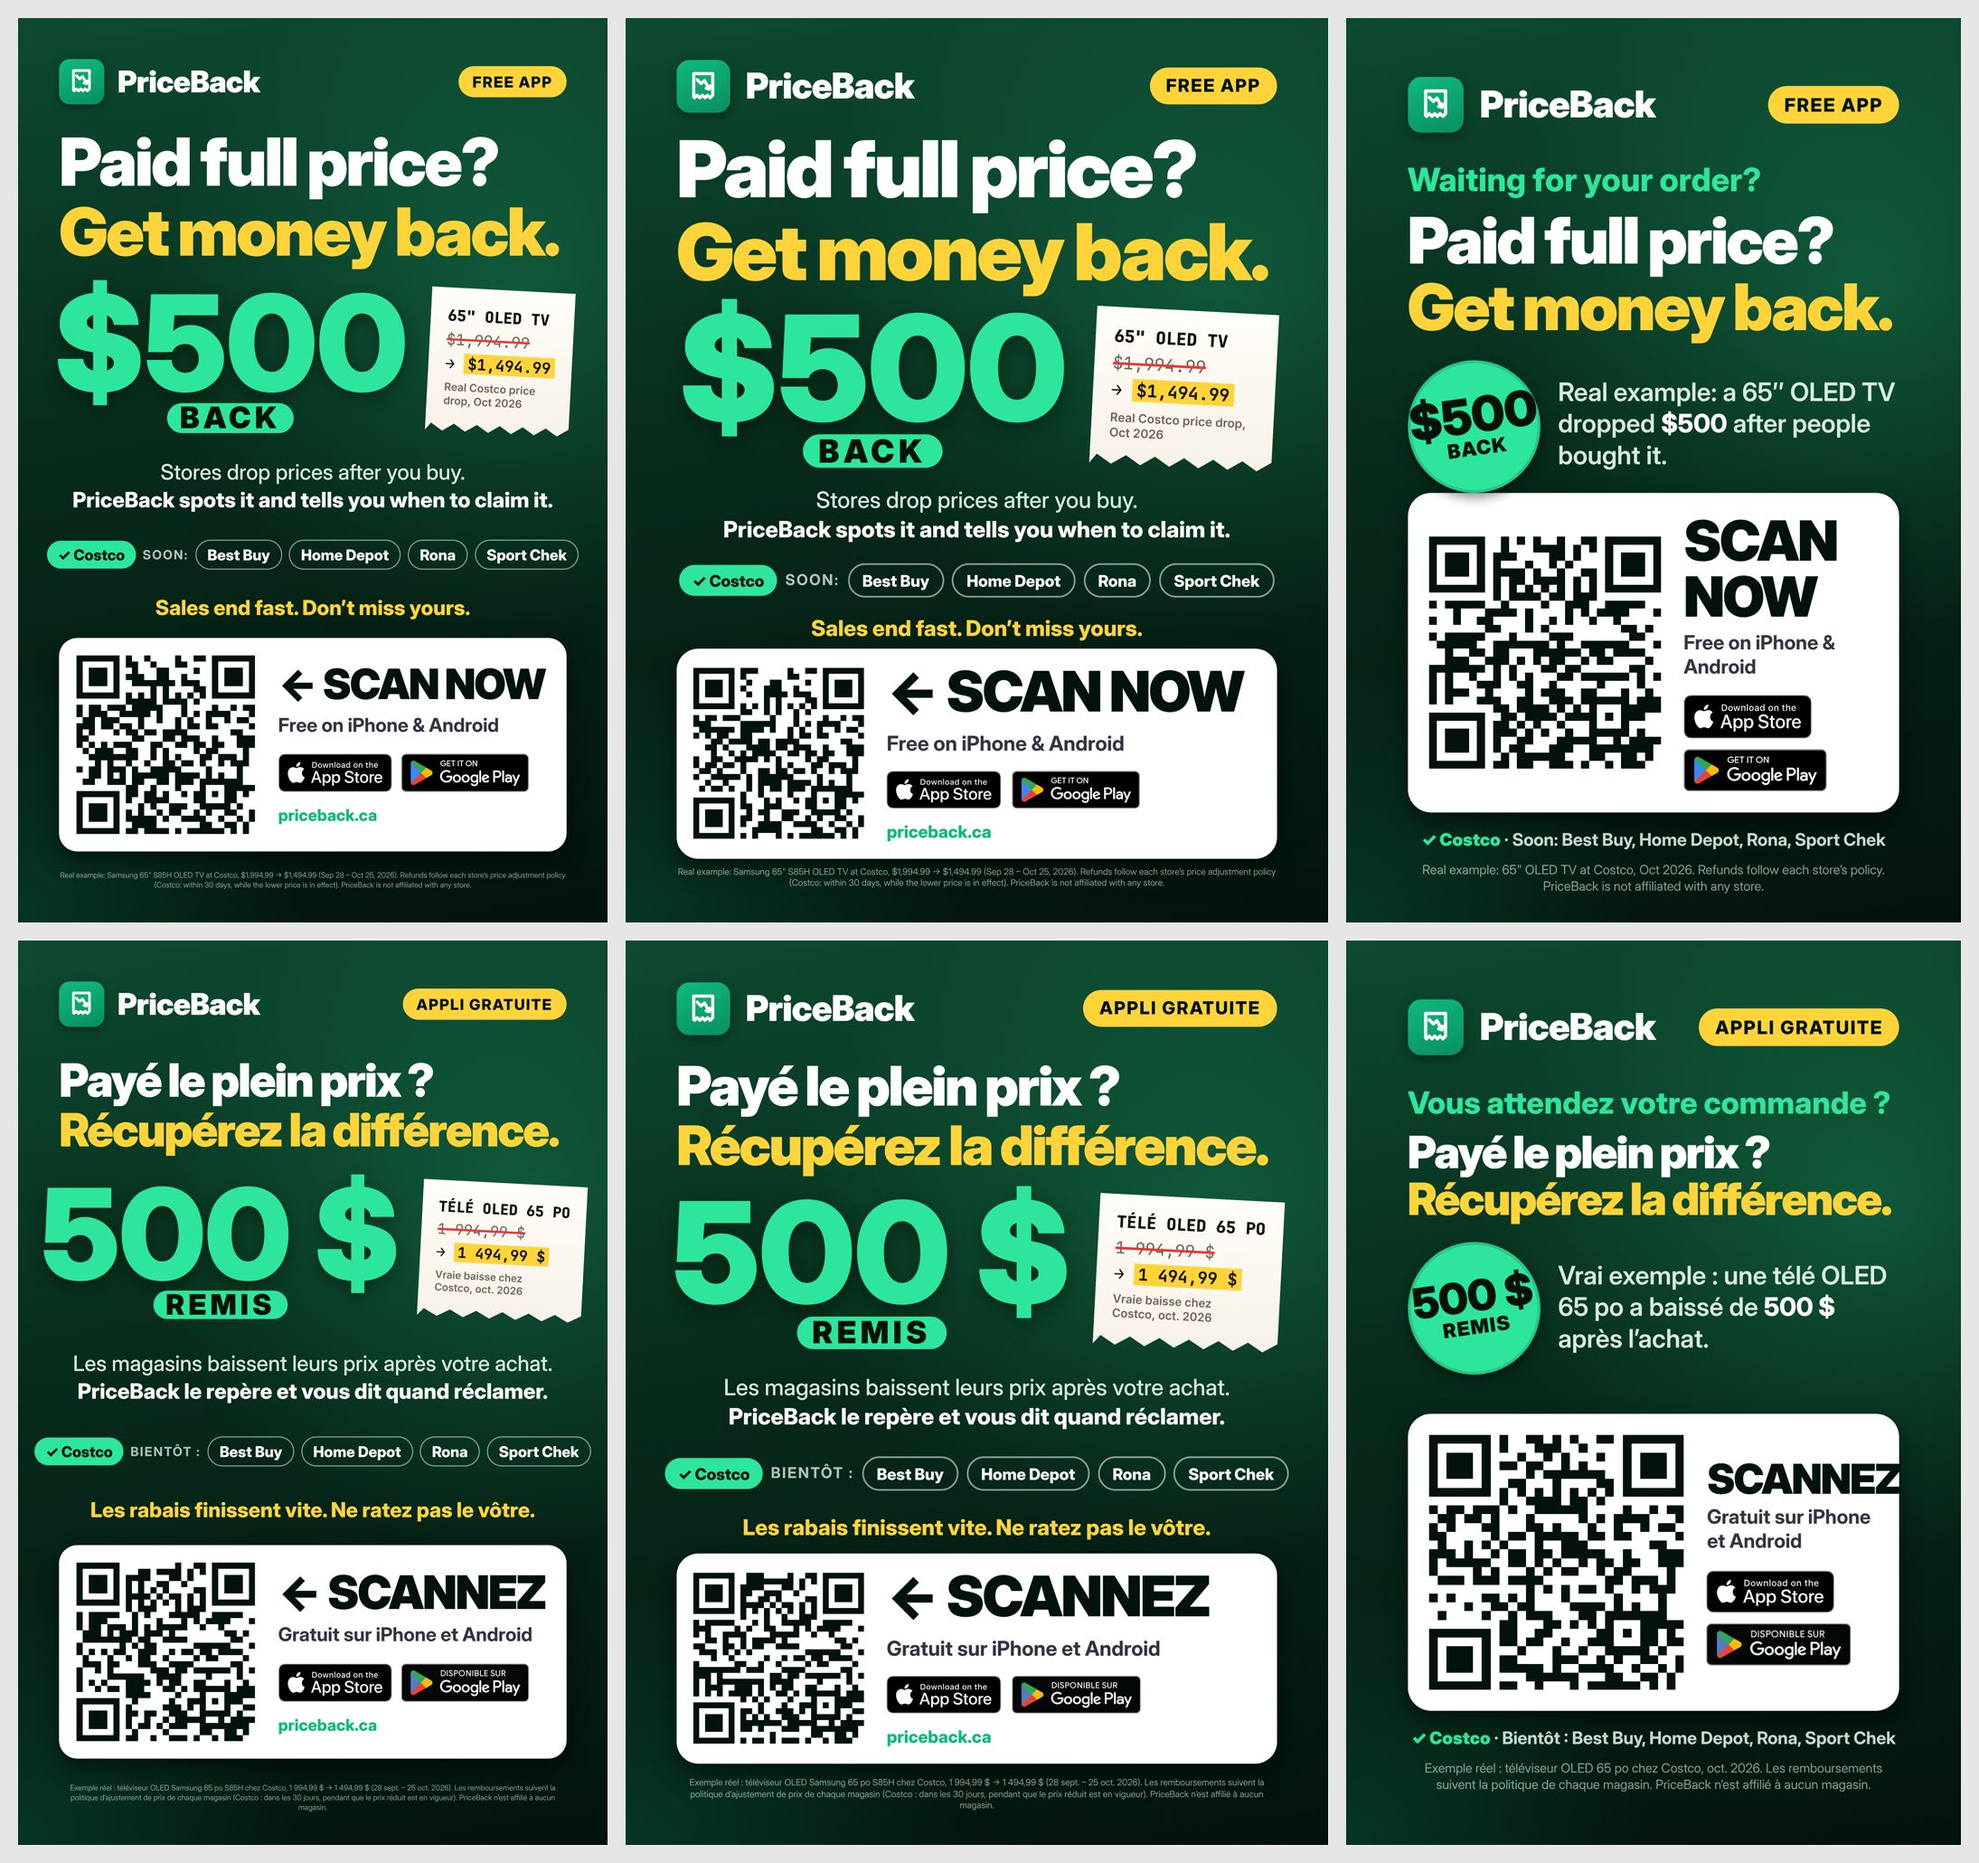
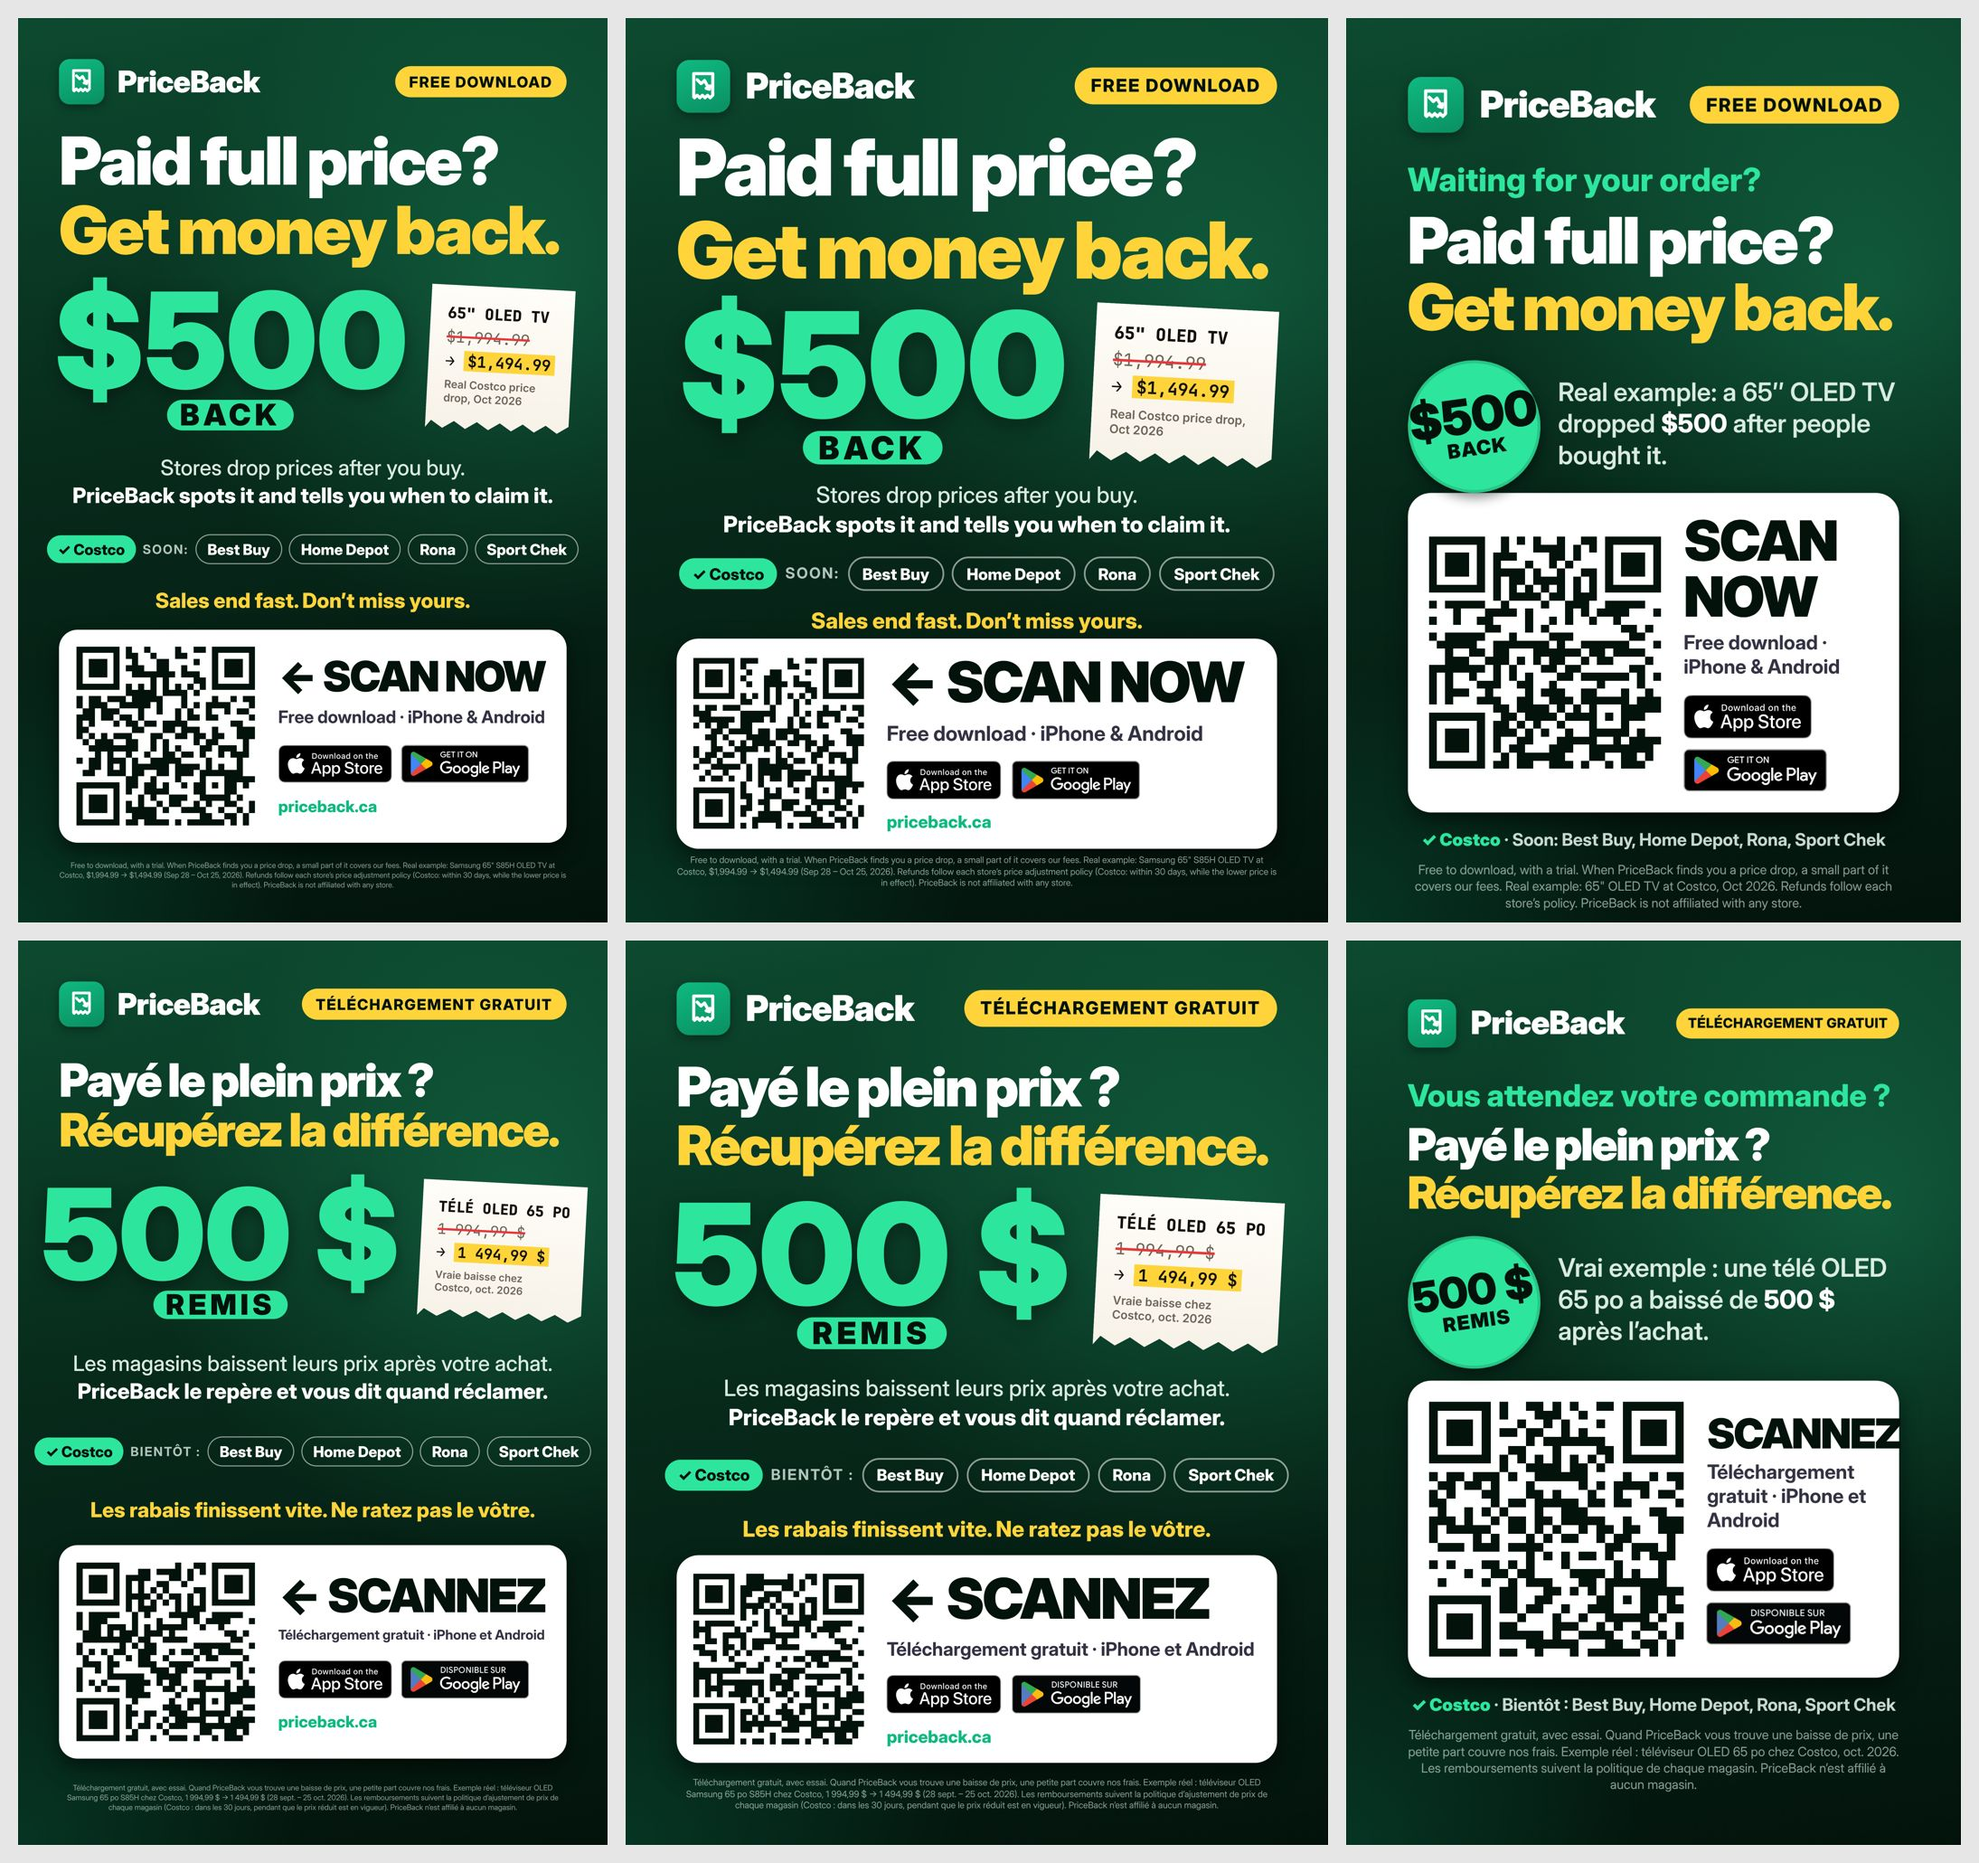
Print posters: say 'free download', not 'free app', and state the trial + fee model
Monica: the app is free to download with a trial, and PriceBack keeps a
small part of the price drops it finds. The pill, the QR card and the
fine print now say exactly that, EN + FR.

Claude-Session: https://claude.ai/code/session_01VjE6kdCs1VFyQDRanHW4T3

diff --git a/sm-content/12-print-posters/render.js b/sm-content/12-print-posters/render.js
@@ -18,7 +18,8 @@ const MARK = (c = "#fff") => `<svg viewBox="0 0 48 48" fill="none" stroke="${c}"
 
 const T = {
   en: {
-    free: "FREE APP",
+    free: "FREE DOWNLOAD",
+    model: "Free to download, with a trial. When PriceBack finds you a price drop, a small part of it covers our fees.",
     h1: "Paid full price?", h2: "Get money back.",
     rcHead: "RECEIPT CHECK", rcItem: "65\" OLED TV", rcPaid: "PAID", rcPaidV: "$1,994.99", rcNow: "NOW", rcNowV: "$1,494.99", rcDrop: "PRICE DROP", rcDropV: "-$500.00",
     stamp1: "$500", stamp2: "BACK",
@@ -27,13 +28,14 @@ const T = {
     stores: ["Best Buy", "Home Depot", "Rona", "Sport Chek"],
     src: "Real Costco price drop, Oct 2026",
     urgent: "Sales end fast. Don’t miss yours.",
-    scan: "SCAN NOW", scan2: "Free on iPhone & Android",
+    scan: "SCAN NOW", scan2: "Free download · iPhone & Android",
     fine: "Real example: Samsung 65\" S85H OLED TV at Costco, $1,994.99 → $1,494.99 (Sep 28 – Oct 25, 2026). Refunds follow each store’s price adjustment policy (Costco: within 30 days, while the lower price is in effect). PriceBack is not affiliated with any store.",
     ck: "Waiting for your order?",
     cfine: "Real example: 65\" OLED TV at Costco, Oct 2026. Refunds follow each store’s policy. PriceBack is not affiliated with any store.",
   },
   fr: {
-    free: "APPLI GRATUITE",
+    free: "TÉLÉCHARGEMENT GRATUIT",
+    model: "Téléchargement gratuit, avec essai. Quand PriceBack vous trouve une baisse de prix, une petite part couvre nos frais.",
     h1: "Payé le plein prix ?", h2: "Récupérez la différence.",
     rcHead: "VÉRIF. DE REÇU", rcItem: "TÉLÉ OLED 65 PO", rcPaid: "PAYÉ", rcPaidV: "1 994,99 $", rcNow: "MAINTENANT", rcNowV: "1 494,99 $", rcDrop: "BAISSE", rcDropV: "-500,00 $",
     stamp1: "500 $", stamp2: "REMIS",
@@ -42,7 +44,7 @@ const T = {
     stores: ["Best Buy", "Home Depot", "Rona", "Sport Chek"],
     src: "Vraie baisse chez Costco, oct. 2026",
     urgent: "Les rabais finissent vite. Ne ratez pas le vôtre.",
-    scan: "SCANNEZ", scan2: "Gratuit sur iPhone et Android",
+    scan: "SCANNEZ", scan2: "Téléchargement gratuit · iPhone et Android",
     fine: "Exemple réel : téléviseur OLED Samsung 65 po S85H chez Costco, 1 994,99 $ → 1 494,99 $ (28 sept. – 25 oct. 2026). Les remboursements suivent la politique d’ajustement de prix de chaque magasin (Costco : dans les 30 jours, pendant que le prix réduit est en vigueur). PriceBack n’est affilié à aucun magasin.",
     ck: "Vous attendez votre commande ?",
     cfine: "Exemple réel : téléviseur OLED 65 po chez Costco, oct. 2026. Les remboursements suivent la politique de chaque magasin. PriceBack n’est affilié à aucun magasin.",
@@ -141,7 +143,7 @@ html{font-size:${wIn / 100}in}
   <div class="cta"><div class="s1">← ${t.scan}</div><div class="s2">${t.scan2}</div>
     <div class="badges"><img src="${APPLE}"><img src="${GP[lang]}"></div>
     <div class="url">priceback.ca</div></div></div>
-<div class="fine">${t.fine}</div>
+<div class="fine">${t.model} ${t.fine}</div>
 </div></div></body></html>`;
 }
 
@@ -153,8 +155,8 @@ html{font-size:${wIn / 100}in}
 .page{width:${W}in;height:${H}in}
 .inner{inset:calc(${BLEED}in + 7rem) calc(${BLEED}in + 7.5rem) calc(${BLEED}in + 5.5rem)}
 .top{display:flex;justify-content:space-between;align-items:center}
-.top .brand{font-size:6.4rem}
-.top .pill{font-size:3.2rem;padding:1.3rem 2.8rem;background:var(--yellow);color:#03130c}
+.top .brand{font-size:${lang === "fr" ? 5.6 : 6.4}rem}
+.top .pill{font-size:${lang === "fr" ? 2.35 : 3.2}rem;letter-spacing:${lang === "fr" ? ".03em" : ".08em"};padding:1.3rem ${lang === "fr" ? 2 : 2.8}rem;background:var(--yellow);color:#03130c}
 .kick{margin-top:5rem;font-weight:800;color:var(--mint);font-size:5.6rem;white-space:nowrap}
 .h1{font-size:13rem;margin-top:1.6rem}.h2{font-size:13rem;margin-top:.6rem}
 .proof{display:flex;align-items:center;gap:3rem;margin-top:3.6rem}
@@ -184,7 +186,7 @@ html{font-size:${wIn / 100}in}
   <div class="cta"><div class="s1">${t.scan}</div><div class="s2">${t.scan2}</div>
   <div class="badges"><img src="${APPLE}"><img src="${GP[lang]}"></div></div></div>
 <div class="stores"><span><b>✓ Costco</b> · ${t.soon} Best Buy, Home Depot, Rona, Sport Chek</span></div>
-<div class="fine">${t.cfine}</div>
+<div class="fine">${t.model} ${t.cfine}</div>
 </div></div></body></html>`;
 }
 

diff --git a/sm-content/12-print-posters/README.md b/sm-content/12-print-posters/README.md
@@ -2,6 +2,8 @@
 
 **Design (v2, after Monica's review):** PriceBack green, not the Costco look. Hook "Paid full price? / Get money back." (FR "Payé le plein prix ? / Récupérez la différence."), hero **$500 BACK** from a real Costco drop (Samsung 65" OLED TV, $1,994.99 → $1,494.99, Sep 28 – Oct 25, 2026, confirmed in the database), a store strip (Costco now; Best Buy, Home Depot, Rona, Sport Chek coming soon, matching `src/constants/stores.js`), an urgency line and one big QR card. The App Store and Google Play badges are cropped to their artwork and set to one height. The counter card adds "Waiting for your order?".
 
+**Pricing wording (Monica, 2026-11-02):** the app is not free. Say "free download" only, never "free app" or "free". Every piece carries the fine print "Free to download, with a trial. When PriceBack finds you a price drop, a small part of it covers our fees." (FR "Téléchargement gratuit, avec essai. Quand PriceBack vous trouve une baisse de prix, une petite part couvre nos frais.").
+
 EN and FR are in separate folders. Every file includes a 0.125" bleed on every side; text stays at least 0.3" inside the trim.
 
 | File | Trim size | Where it goes | QR source tag |
